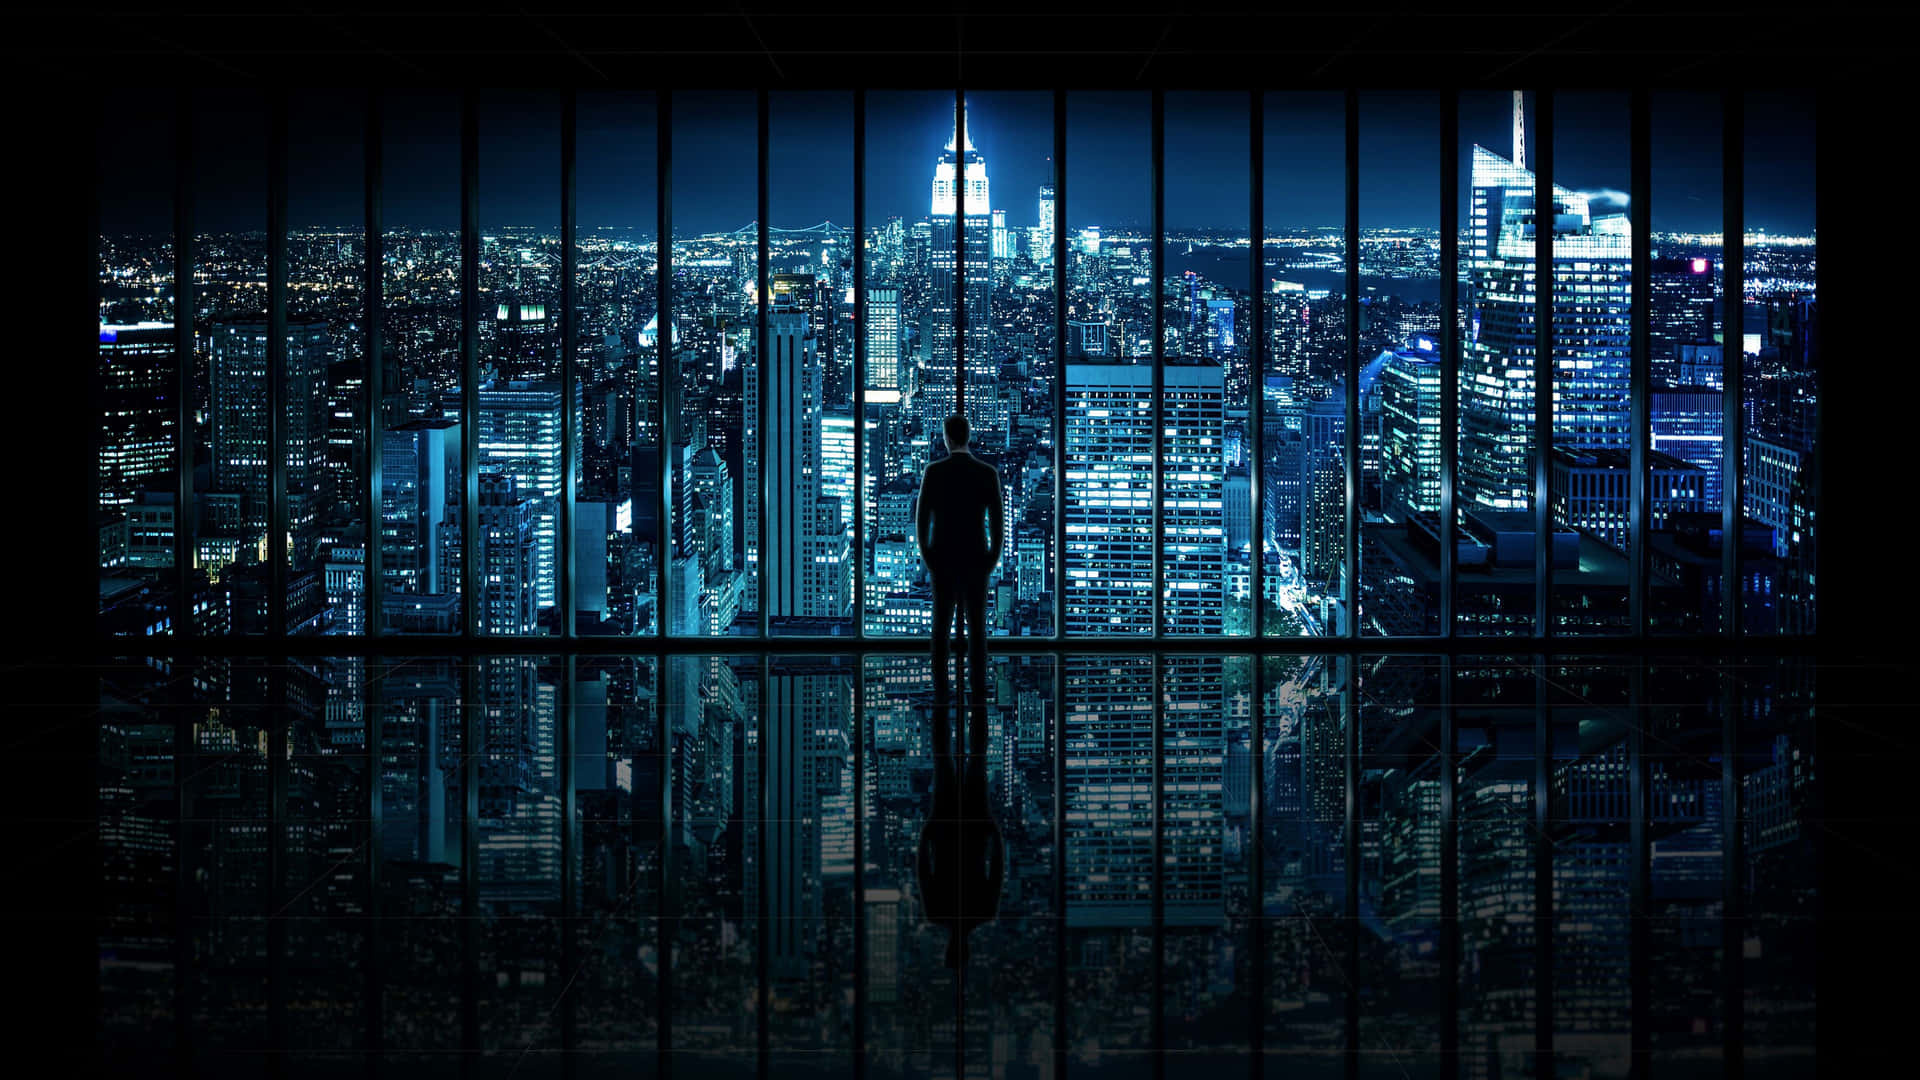
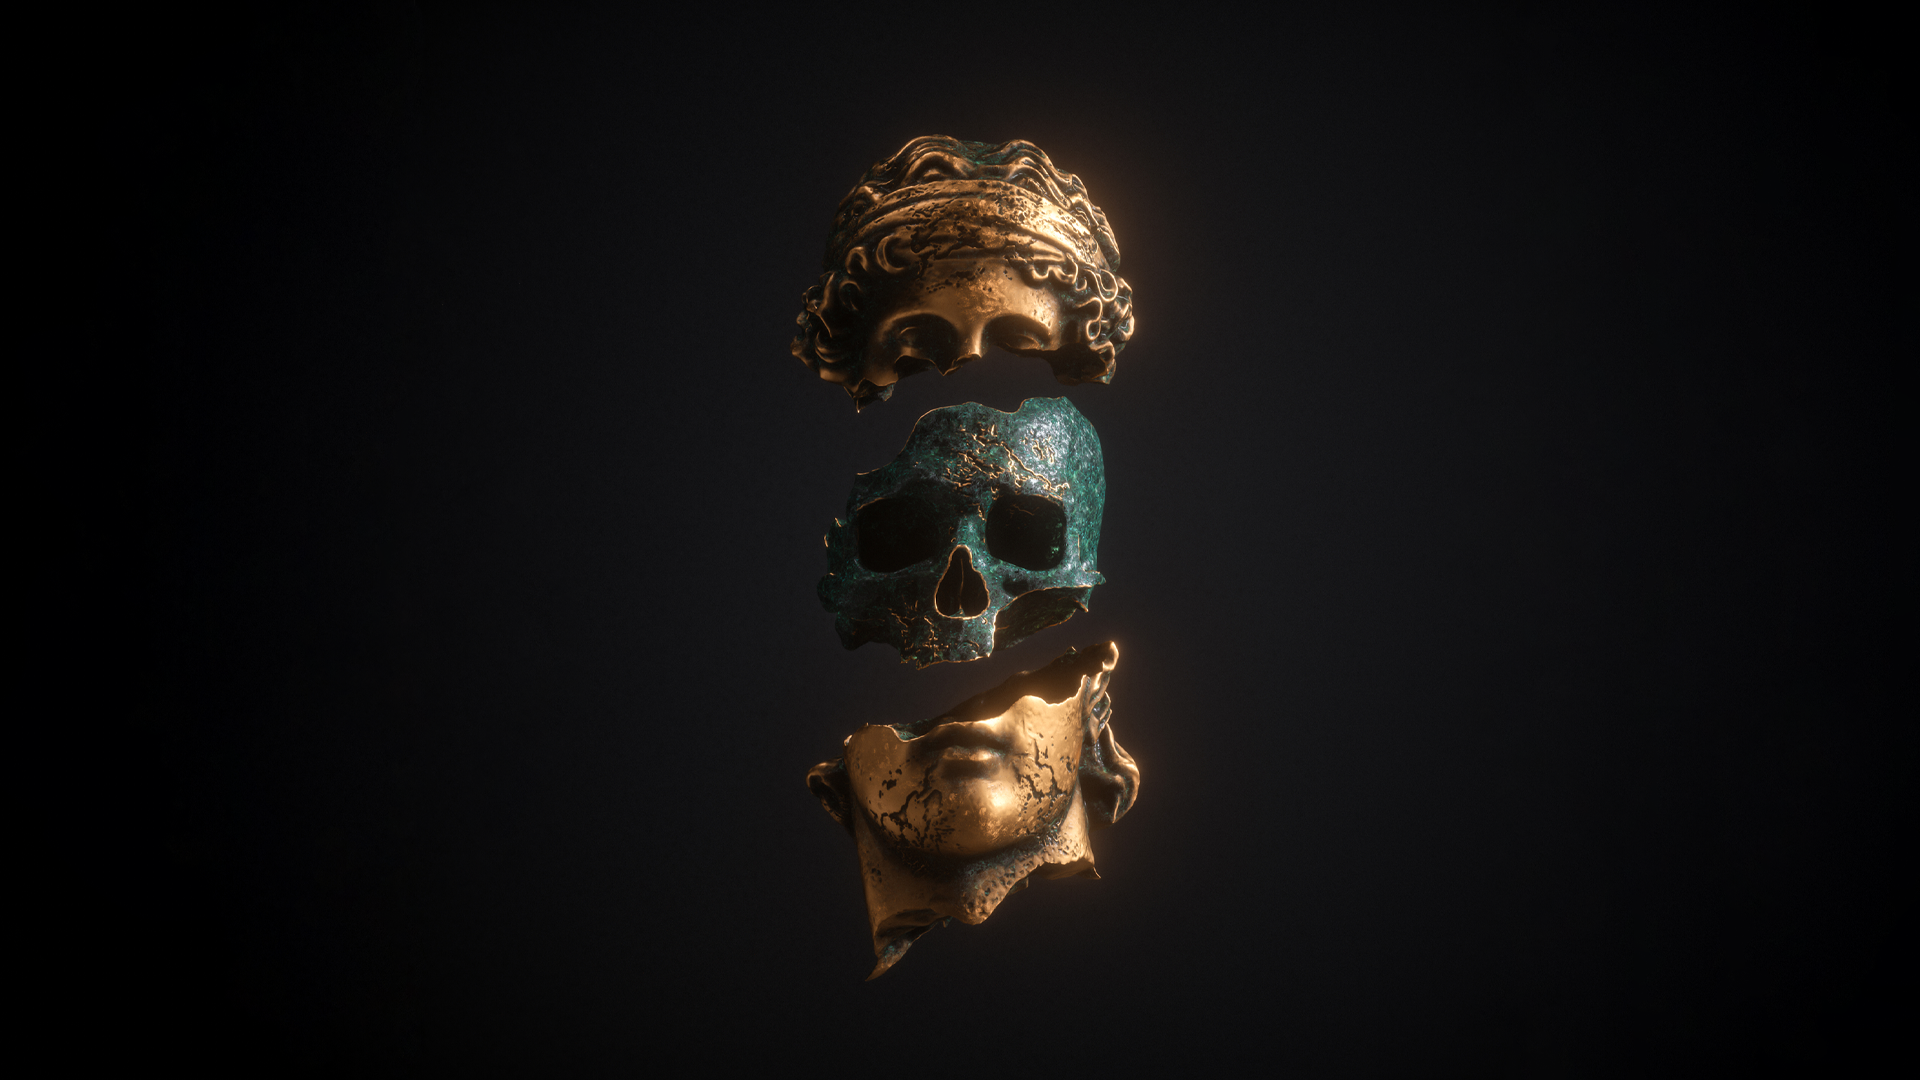
Add files via upload

diff --git a/Home/style.css b/Home/style.css
@@ -49,3 +49,38 @@ nav{
 .s2{
     height: 100vh;
 }
+.wrap-open{
+    display: none;
+}
+
+.menu-mobile{
+    display: none0;
+}
+
+@media (width<=1000px){
+    nav{
+        display: none;
+    }
+    .wrap-open{
+        background-color: #ffffff;
+        opacity: 0.5;
+        display: flex;
+        width: 50px;
+        height: 50px;
+        position: absolute;
+        right: 10px;
+        top: 10px;
+        justify-content: center;
+        align-items: center;
+        border-radius: 5px;
+        transition: all 200ms ease-in-out;
+    }
+    .wrap-open img{
+        width: 40px;
+    }
+    .wrap-open:hover{
+        opacity: 1;
+        cursor: pointer;
+    }
+    .menu-mobile{}
+}

diff --git a/Home/index.html b/Home/index.html
@@ -27,10 +27,24 @@
             <p>Contato</p>
         </a>
     </nav>
+
+    <div class="wrap-open">
+        <img src="../assets/icons/menu.png" alt="menu">
+    </div>
+
+     <div id="menu-mobile">
+        <a href="">Home</a>
+        <a href="">Instituição</a>
+        <a href="">Produtos</a>
+        <a href="">Contato</a>
+
+     </div>
     <section class="s1">
     
     </section>
-    <section class="s2"></section>
+    <section class="s2">
+
+    </section>
 
     <script src="script.js"></script>
 </body>
